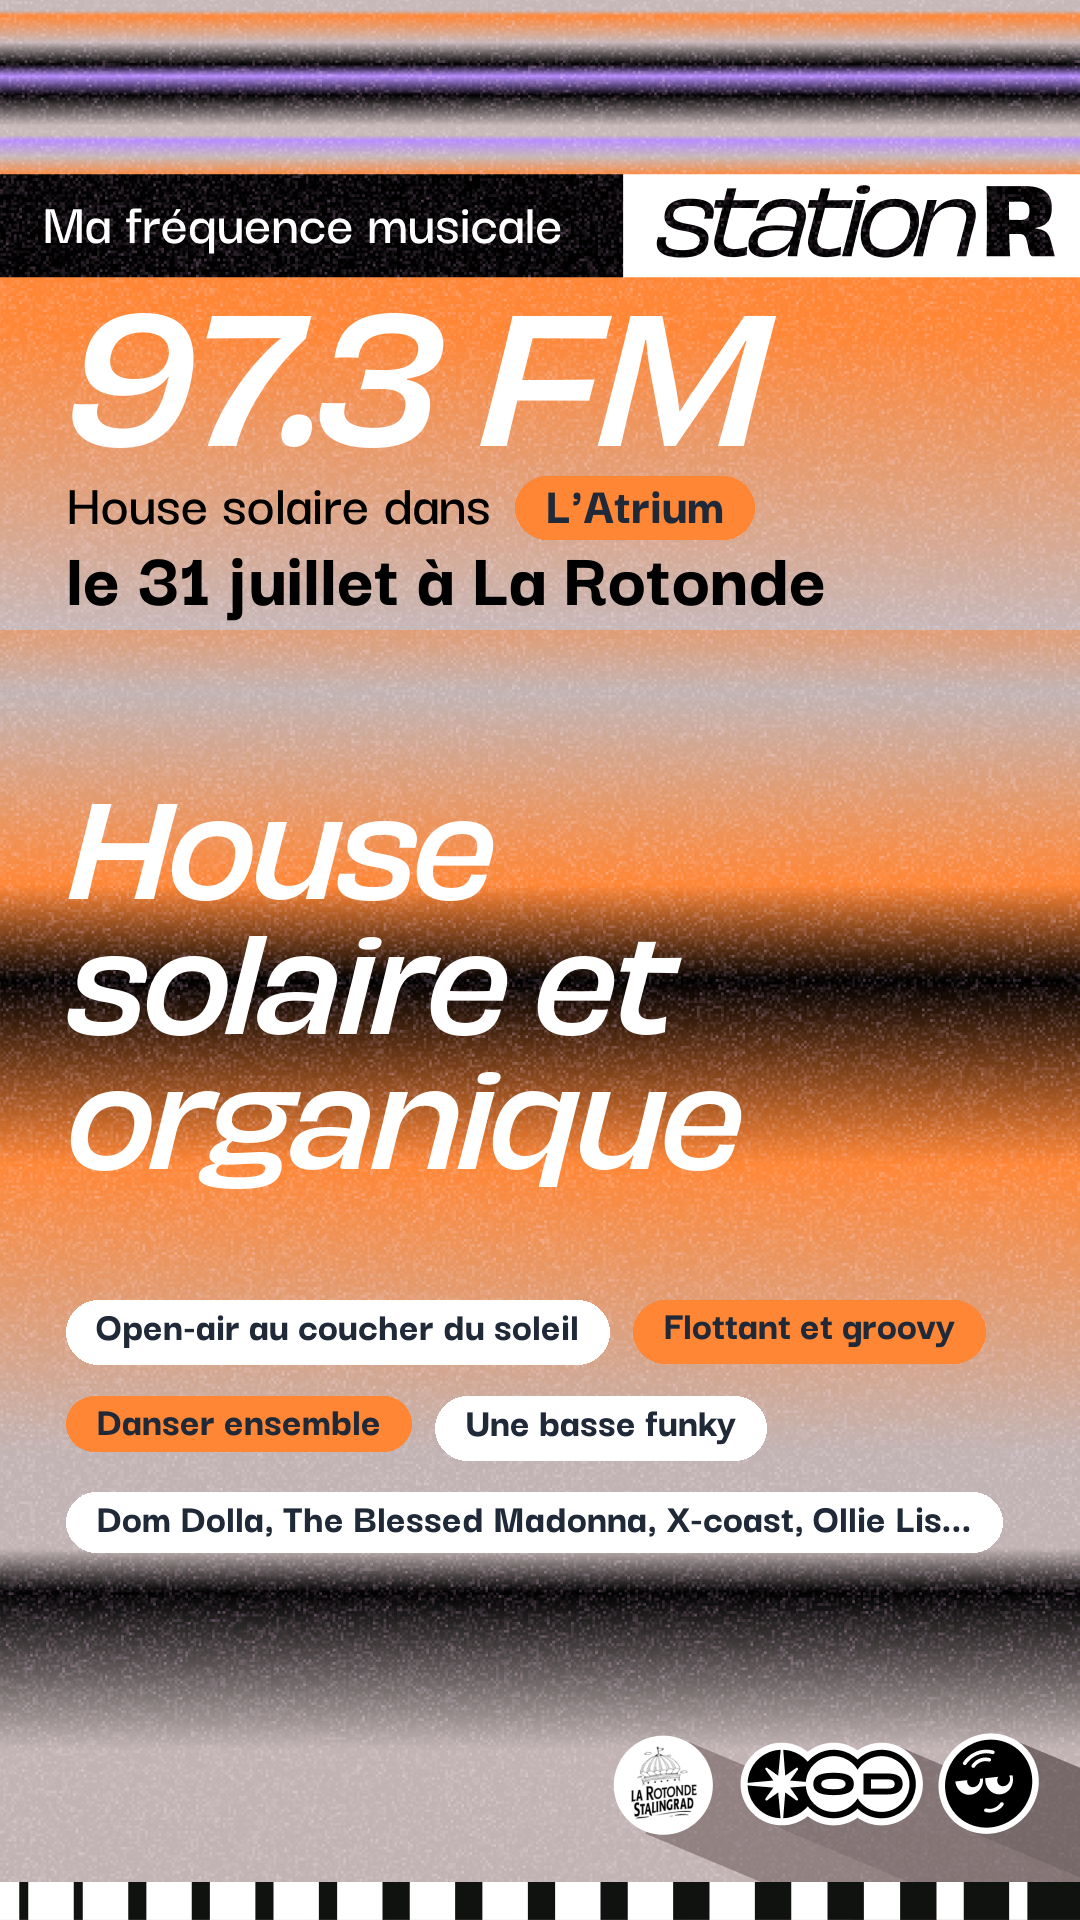
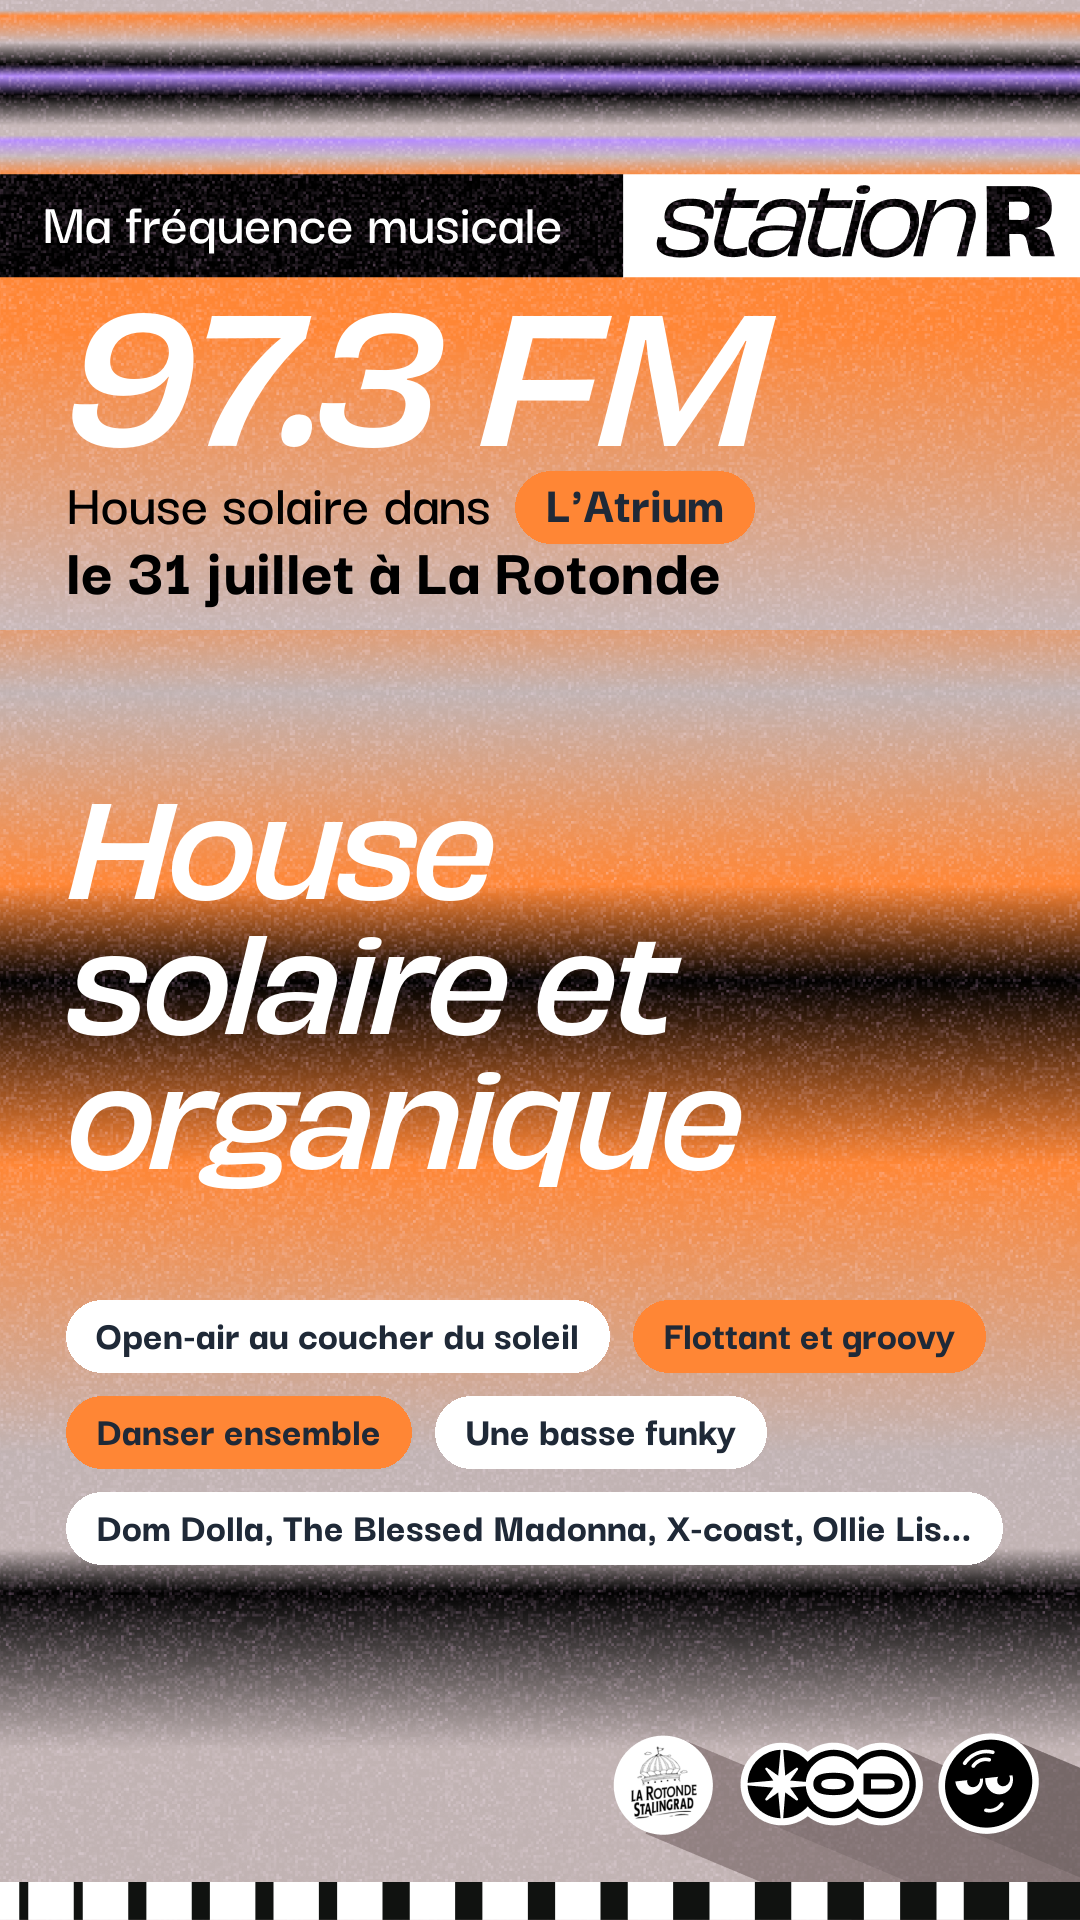
Fixed pills not displaying text with descenders correctly

Changed region(s): [[0.0611, 0.6875, 0.9167, 0.8125], [0.0611, 0.2812, 0.7639, 0.3438]]

diff --git a/freq_image_gen.py b/freq_image_gen.py
@@ -112,7 +112,7 @@ def generate_freq_image(frequency: str, scene_genre: str, scene_name: str,
         gap: int = 0,
         offset: tuple = (0, 0),
         padding_x: int = 40,
-        padding_y: int = 18
+        pill_height: int = 72
     ) -> tuple:
         """
         Draws a pill (rounded rectangle) with centered text.
@@ -125,9 +125,8 @@ def generate_freq_image(frequency: str, scene_genre: str, scene_name: str,
         # Measure text size
         text_bbox = font.getbbox(text)
         text_width = text_bbox[2] - text_bbox[0]
-        text_height = text_bbox[3] - text_bbox[1]
         pill_width = text_width + 2 * padding_x
-        pill_height = text_height + 2 * padding_y
+        # pill_height is now specified as a parameter
         if pos is not None:
             pill_x, pill_y = pos
         elif relative_to is not None and relative_to_text is not None and relative_to_font is not None:
@@ -156,8 +155,24 @@ def generate_freq_image(frequency: str, scene_genre: str, scene_name: str,
             draw.ellipse([pill_x, pill_y, pill_x + pill_height, pill_y + pill_height], fill=pill_fill)
             draw.ellipse([pill_x + pill_width - pill_height, pill_y, pill_x + pill_width, pill_y + pill_height], fill=pill_fill)
         # Draw text centered in pill
+        # Center text horizontally
         text_x = pill_x + (pill_width - text_width) // 2 - text_bbox[0]
-        text_y = pill_y + (pill_height - text_height) // 2 - text_bbox[1]
+        
+        # Center text vertically using font metrics for consistent positioning
+        # This ensures text with and without descenders appears at the same height
+        try:
+            # Use font metrics to get consistent baseline positioning
+            ascent, descent = font.getmetrics()
+            # Position baseline so the visual center is centered in pill, with slight downward adjustment
+            baseline_y = pill_y + pill_height // 2 + descent // 2 + 7  # +2 to move text down slightly
+            text_y = baseline_y - ascent
+        except (AttributeError, TypeError):
+            # Fallback: use font size estimation
+            estimated_ascent = int(font.size * 0.8)  # Typical ascent is ~80% of font size
+            estimated_descent = int(font.size * 0.2)  # Typical descent is ~20% of font size
+            baseline_y = pill_y + pill_height // 2 + estimated_descent // 2 + 6  # +2 to move text down slightly
+            text_y = baseline_y - estimated_ascent
+        
         draw.text((text_x, text_y), text, fill=text_fill, font=font)
         return (pill_x, pill_y, pill_x + pill_width, pill_y + pill_height)
 
@@ -194,7 +209,7 @@ def generate_freq_image(frequency: str, scene_genre: str, scene_name: str,
         scene_name_font = ImageFont.load_default()
     
     try:
-        date_font = ImageFont.truetype(os.path.join("assets","DarkerGrotesque-ExtraBold.ttf"), 80)
+        date_font = ImageFont.truetype(os.path.join("assets","DarkerGrotesque-ExtraBold.ttf"), 69)
     except (OSError, IOError):
         date_font = ImageFont.load_default()
 
@@ -249,7 +264,7 @@ def generate_freq_image(frequency: str, scene_genre: str, scene_name: str,
         gap=24,
         offset=pill_offset,
         padding_x=30,
-        padding_y=15
+        pill_height=72
     )
 
     date_pos = (66, 520)
@@ -294,7 +309,7 @@ def generate_freq_image(frequency: str, scene_genre: str, scene_name: str,
         pill_idx = 0
         for line_num, tag_indices in enumerate(lines):
             x = pill_start_x
-            y = pill_start_y + line_num * (tags_font.size + 2 * 15 + pill_gap_y)
+            y = pill_start_y + line_num * (72 + pill_gap_y)
             if len(tag_indices) == 2:
                 # Two pills: try to fit both at full length, only truncate if needed, allow short pill to use less space
                 available_width = max_pill_right - pill_start_x
@@ -335,7 +350,7 @@ def generate_freq_image(frequency: str, scene_genre: str, scene_name: str,
                     pill_fill=pill_bg0,
                     pos=(pill_x, y),
                     padding_x=30,
-                    padding_y=15
+                    pill_height=72
                 )
                 pill_x = pill_bbox0[2] + pill_gap_x
                 pill_bbox1 = draw_pill(
@@ -346,7 +361,7 @@ def generate_freq_image(frequency: str, scene_genre: str, scene_name: str,
                     pill_fill=pill_bg1,
                     pos=(pill_x, y),
                     padding_x=30,
-                    padding_y=15
+                    pill_height=72
                 )
                 pill_idx += 2
             else:
@@ -373,7 +388,7 @@ def generate_freq_image(frequency: str, scene_genre: str, scene_name: str,
                     pill_fill=pill_bg,
                     pos=(x, y),
                     padding_x=30,
-                    padding_y=15
+                    pill_height=72
                 )
                 pill_idx += 1
     
